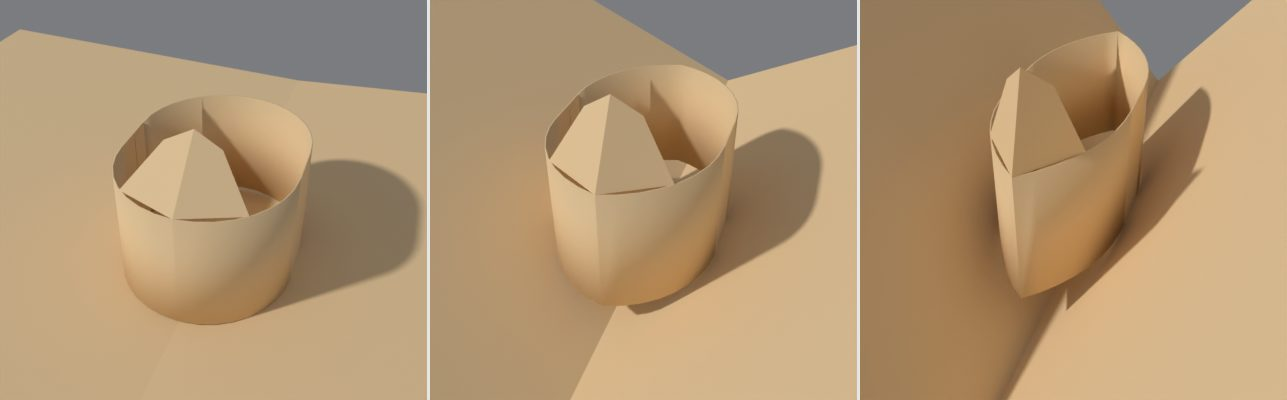
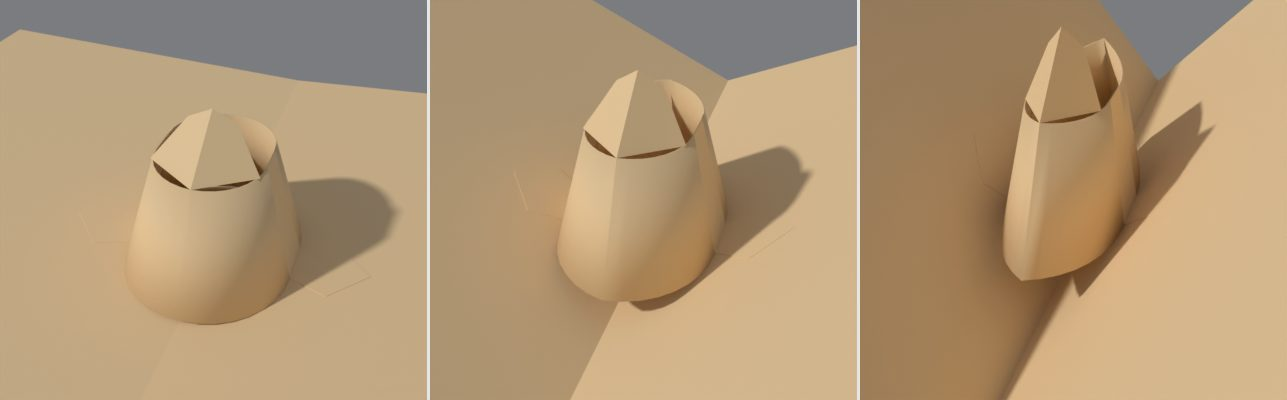
v0.82.1: the animal face a little conical, with ears; a muzzle on cones
Claude-Session: https://claude.ai/code/session_01C9mQ3UdpPG4HfxWumnBXkE

diff --git a/popup_pro/core/faces.py b/popup_pro/core/faces.py
@@ -15,6 +15,20 @@ class Faces:
     """Animal-face builder. Mixed into Model (model.py)."""
 
     def _tube_face(self, m, piece, P, uc, hgt, nf, wf):
+        """A straight loop's or tube's muzzle: off the top of its front
+        crease (at uc along its strip)."""
+        Gn = min(float(m.get("face_width", 18.0)), wf)
+        w1 = wf / nf  # a facet's width
+        j = min(nf - 1, int((Gn - 1e-6) / w1))  # facets out from the crease
+        names = (("GFL", "GFR", "GFL", "GFR") if nf == 1 else
+                 (f"GFL{nf}", "GFR1", f"GFL{nf - j}", f"GFR{1 + j}"))
+        if any(n not in P or P[n] is None for n in names):
+            return
+        nl, nr, wl, wr = (P[n] for n in names)
+        self._muzzle(m, piece, nl, nr, (uc, hgt), (0.0, 1.0),
+                     (wl, (uc - Gn, hgt)), (wr, (uc + Gn, hgt)))
+
+    def _muzzle(self, m, piece, near_l, near_r, O2, up2, end_l, end_r):
         """Birmingham takes a bite out of the end of the loop's centre fold
         and sticks its edges together, which pulls the card either side of
         it back into a curve: a nose. Stiff paper can't curve, so here the
@@ -25,35 +39,41 @@ class Faces:
         hardly at all when the card is shut, further as the walls open, and
         flat back when they open as far as the dart allows (wider than
         that, real card curves and this can't follow: Checks says so)."""
+        # near_l, near_r: the walls each side of the front crease; O2: the
+        # crease's top in the pattern, up2: its line on upward; end_l,
+        # end_r: (wall, pattern point) where each facet's crease ends
         lab = m["label"]
-        Gn = min(float(m.get("face_width", 18.0)), wf)
         Ln = float(m.get("face_len", 22.0))
         dart = math.radians(max(0.0, min(60.0, float(m.get("face_dart", 15.0)))))
-        w1 = wf / nf  # a facet's width
-
-        def wall(sx):
-            j = min(nf - 1, int((Gn - 1e-6) / w1))  # facets out from the crease
-            if nf == 1:
-                return "GFL" if sx < 0 else "GFR"
-            return f"GFL{nf - j}" if sx < 0 else f"GFR{1 + j}"
-
-        near = {-1.0: "GFL" if nf == 1 else f"GFL{nf}", 1.0: "GFR" if nf == 1 else "GFR1"}
-        if any(n not in P or P[n] is None for n in (wall(-1.0), wall(1.0), near[-1.0],
-                                                    near[1.0])):
-            return
+        O = Vector((O2[0], O2[1], 0.0))
+        up = Vector((up2[0], up2[1], 0.0)).normalized()
+        near = {-1.0: near_l, 1.0: near_r}
+        ends = {-1.0: end_l, 1.0: end_r}
+        # each facet's own shape: its crease, and its seam edge the dart
+        # short of the front crease's line
+        shape = {}
+        for sx in (-1.0, 1.0):
+            h2 = Vector((ends[sx][1][0], ends[sx][1][1], 0.0)) - O
+            Gn = h2.length
+            h2 = h2 / Gn
+            th = h2.angle(up)
+            across = (h2 - h2.dot(up) * up).normalized()
+            s2 = math.cos(dart) * up + math.sin(dart) * across
+            shape[sx] = (h2, s2, Gn, max(0.0, th - dart))
+        alpha = 0.5 * (shape[-1.0][3] + shape[1.0][3])
         tight = []
 
         def seam(t):
-            A = P[near[1.0]].asm(t)
-            Pc = A @ Vector((uc, hgt, 0.0))
-            c = (A.to_3x3() @ Vector((0.0, 1.0, 0.0))).normalized()
-            gl = (P[wall(-1.0)].asm(t) @ Vector((uc - Gn, hgt, 0.0)) - Pc).normalized()
-            gr = (P[wall(1.0)].asm(t) @ Vector((uc + Gn, hgt, 0.0)) - Pc).normalized()
+            A = near_r.asm(t)
+            Pc = A @ O
+            c = (A.to_3x3() @ up).normalized()
+            gl = (ends[-1.0][0].asm(t) @ Vector((*ends[-1.0][1], 0.0)) - Pc).normalized()
+            gr = (ends[1.0][0].asm(t) @ Vector((*ends[1.0][1], 0.0)) - Pc).normalized()
             mm = gl + gr
             rho = 0.5 * mm.length
             if rho < 1e-6:  # (a flat front: one flap, standing straight up)
                 return Pc, gl, gr, c
-            ca = math.sin(dart) / rho  # cos of (90 degrees - dart), the facet's angle
+            ca = math.cos(alpha) / rho
             if ca > 1.0 + 1e-9:
                 tight.append(t)
             ca = min(1.0, ca)
@@ -63,9 +83,7 @@ class Faces:
             return Pc, gl, gr, (ca * mh + math.sqrt(1.0 - ca * ca) * kh).normalized()
 
         for sx in (-1.0, 1.0):
-            h2 = Vector((sx, 0.0, 0.0))
-            s2 = Vector((sx * math.sin(dart), math.cos(dart), 0.0))
-            O = Vector((uc, hgt, 0.0))
+            h2, s2, Gn, _ = shape[sx]
             F2i = frame(O, h2, s2).inverted()
 
             def asm(t, sx=sx, F2i=F2i):
@@ -76,10 +94,10 @@ class Faces:
                     for a_, b_ in ((0.0, 0.0), (Gn, 0.0), (0.45 * Gn, 0.75 * Ln), (0.0, Ln))]
             side = "L" if sx < 0 else "R"
             p = self.add(Panel(f"{piece}.Nose{side}", piece, "panel", [poly], asm,
-                               P[near[sx]].name, None,
+                               near[sx].name, None,
                                f"{lab}: muzzle {'left' if sx < 0 else 'right'}"))
             p.free = True  # (creased off a curve: posed opening by opening)
-            self.fold_kind[frozenset((P[near[sx]].name, p.name))] = "valley"
+            self.fold_kind[frozenset((near[sx].name, p.name))] = "valley"
         self.fold_kind[frozenset((f"{piece}.NoseL", f"{piece}.NoseR"))] = "mountain"
         for t in self.samples:
             seam(t)
@@ -87,3 +105,13 @@ class Faces:
             self.warn(f"{lab}: the nose's dart is too wide for how far the front opens "
                       f"(from {min(tight):.0f} degrees); narrow Nose Dart or Muzzle Width, "
                       f"or let the card curve there")
+
+    @staticmethod
+    def ear(e0, e1, out, size):
+        """An ear: a base tab's outline grown to a point, size out from the
+        wall's foot (e0 to e1; out: away from the wall, in the pattern)."""
+        e0, e1, out = Vector(e0).to_2d(), Vector(e1).to_2d(), Vector(out).to_2d().normalized()
+        ev = (e1 - e0).normalized()
+        mid = 0.5 * (e0 + e1)
+        return [tuple(e0), tuple(e1), tuple(e1 + 0.5 * size * out + 0.2 * size * ev),
+                tuple(mid + size * out), tuple(e0 + 0.5 * size * out - 0.2 * size * ev)]

diff --git a/popup_pro/core/tubes.py b/popup_pro/core/tubes.py
@@ -422,6 +422,16 @@ class Tubes:
                     -onward(i_split, i_split - 1), pB)
         # base tabs under the side walls, folded in (towards the fold) or out
         kk = 1.0 if m.get("tab_side", "IN") == "IN" else -1.0
+        if m.get("face"):
+            kk = -1.0  # (ears: out from the loop)
+            j = max(1, min(n, round(float(m.get("face_width", 18.0)) /
+                                    max(1e-6, (Vector(pt2(n, 1.0 - f_top, n)) -
+                                               Vector(pt2(n + 1, 1.0 - f_top, n))).length))))
+            top = pt2(n + 1, 1.0 - f_top, n)
+            up2 = Vector(top) - Vector(pt2(n + 1, 1.0, n))
+            self._muzzle(m, piece, P[names[n][0]], P[names[n + 1][0]], top, tuple(up2),
+                         (P[names[n + 1 - j][0]], pt2(n + 1 - j, 1.0 - f_top, n + 1 - j)),
+                         (P[names[n + j][0]], pt2(n + 1 + j, 1.0 - f_top, n + j)))
         for nm, i, pg, Tp, sx in (("FL_", 0, host.p1, host.T1, -1.0),
                                   ("FR_", 2 * n + 1, host.p2, host.T2, 1.0)):
             e0, e1 = pt2(i, 1.0, i), pt2(i + 1, 1.0, i)
@@ -433,6 +443,8 @@ class Tubes:
             c2 = min(0.3 * tb, 0.2 * Lb)
             poly = [e0, e1, tuple(Vector(e1) + tb * out_ - c2 * ev),
                     tuple(Vector(e0) + tb * out_ + c2 * ev)]
+            if m.get("face"):
+                poly = self.ear(e0, e1, out_, float(m.get("face_ear", 22.0)))
             tgt = Tp.to_3x3() @ Vector((-sx * kk, 0.0, 0.0))
             sd = "L" if sx < 0 else "R"
             self.add(Panel(f"{piece}.Tab{sd}", piece, "tab", [ccw(poly)],
@@ -698,6 +710,8 @@ class Tubes:
                            None, f"{lab}: joining tab"))
         # base tabs under the side walls, folded in (towards the fold) or out
         k = 1.0 if m.get("tab_side", "IN") == "IN" else -1.0
+        if m.get("face"):
+            k = -1.0  # (ears: out from the loop)
         for side, u0, u1, T, parent, Tp in (
             ("L", u[0], u[1], frame(Vector((-a, y0 + D, TAB_LIFT)), (0, -1, 0), (-k, 0, 0)),
              host.p1, host.T1),
@@ -708,6 +722,9 @@ class Tubes:
             tbb = float(m.get("tab", 10.0))  # (out from the wall: not limited by its length)
             c2 = min(0.3 * tbb, 0.2 * D)
             poly = [(u0 + c2, -tbb), (u0, 0), (u1, 0), (u1 - c2, -tbb)]
+            if m.get("face"):
+                poly = self.ear((u0, 0.0), (u1, 0.0), (0.0, -1.0),
+                                float(m.get("face_ear", 22.0)))
             sgn = -1.0 if side == "L" else 1.0
             n2 = (sgn * T[0][0], sgn * T[0][1])
             poly = clip_halfplane(poly, n2, 0.5 - sgn * T[0][3])

diff --git a/popup_pro/props.py b/popup_pro/props.py
@@ -1001,6 +1001,11 @@ class PopupMech(bpy.types.PropertyGroup):
                          "carries on up past the front crease as a muzzle, folded back "
                          "over the loop by a dart (Birmingham 17)", default=False,
                          update=_changed)
+    face_ear: FloatProperty(name="Ear Size", description="Animal face: its base tabs are "
+                            "ears, glued to the pages out from the loop; how far they "
+                            "reach from the wall's foot", default=22.0, min=4.0,
+                            soft_max=80.0, subtype="DISTANCE", unit="LENGTH",
+                            update=_changed)
     face_width: FloatProperty(name="Muzzle Width", description="How far the muzzle runs "
                               "along the wall each side of the front crease", default=18.0,
                               min=3.0, soft_max=80.0, subtype="DISTANCE", unit="LENGTH",
@@ -1516,7 +1521,7 @@ class PopupMech(bpy.types.PropertyGroup):
                      strips=self.strips, cone_top=self.cone_top,
                      roof_height=self.roof_height, ridge=self.ridge,
                      roof_fold=self.roof_fold, eave=self.eave, rib=self.rib,
-                     face=self.muzzle, face_width=self.face_width, face_len=self.face_len,
+                     face=self.muzzle, face_ear=self.face_ear, face_width=self.face_width, face_len=self.face_len,
                      face_dart=self.face_dart)
         elif self.kind == "ROOF":
             d.update(type="ROOF", phi_l=self.phi_l, alpha_l=self.alpha_l, glue=self.glue,

diff --git a/tests/test_book_v82.py b/tests/test_book_v82.py
@@ -165,6 +165,17 @@ st["pop_next_uid"] = 1
 # ---- an animal face: a loop with a muzzle
 f = add("TUBE", variant="FACE")
 assert f.muzzle and f.front_style == "ROUND" and f.label.startswith("Face")
+assert f.cone_lean == 15.0  # (a little conical, narrower at the nose)
+M = built("Tube")
+for t in M.samples:  # on a cone: the two halves share the crease's top and the seam's tip
+    L, R = world(M, "Tube1.NoseL", t), world(M, "Tube1.NoseR", t)
+    shared = [w for w in L if min((w - v).length for v in R) < 0.02]
+    assert len(shared) == 2 and all(abs(w.x) < 0.02 for w in shared), (t, shared)
+ear = M.panels["Tube1.TabL"]  # its base tabs are ears, out from the loop
+assert len(ear.polys[0]) == 5
+xs = [w.x for w in world(M, "Tube1.TabL", M.tmax)]
+assert min(xs) < -(f.x + 0.9 * f.face_ear) and max(xs) < -f.x + 0.5, xs
+f.cone_lean = 0.0  # ---- and on a straight loop
 M = built("Tube")
 uc = f.depth + M.tubes[1]["wf"]  # the front crease, along the strip
 leans = []

diff --git a/popup_pro/ui.py b/popup_pro/ui.py
@@ -679,6 +679,7 @@ class POPUP_PT_mechs(_Base, bpy.types.Panel):
                 col.prop(m, "face_width")
                 col.prop(m, "face_len")
                 col.prop(m, "face_dart")
+                col.prop(m, "face_ear")
         col.prop(m, "strips")
         col.prop(m, "roof")
         if m.roof == "POINTED":

diff --git a/popup_pro/ops.py b/popup_pro/ops.py
@@ -356,6 +356,7 @@ def _as_face(st, m):
     was = st.live
     st["live"] = False
     m.height, m.muzzle = 35.0, True
+    m.cone_lean = 15.0  # (a little conical: narrower at the nose)
     m.label = unique_label(st.mechs, "Face", m)
     st["live"] = was
 

diff --git a/docs/guide.md b/docs/guide.md
@@ -219,10 +219,14 @@ Width** along it). **Muzzle Length** is how far it rises past the wall and
 just its dart; it folds further back as the loop opens, and lies flat back
 when the front has opened as far as the dart allows. Past that real card
 curves and this can't follow: Checks says so (narrow the dart or the
-muzzle). The loop's tabs are the book's glued ears, and its join at the back
-the strap under the chin. Draw the face on it, and erase its art to shape it.
+muzzle). The loop's base tabs become the book's glued **ears**: pointed, out
+from the loop, **Ear Size** from the wall's foot; its join at the back is
+the strap under the chin. From the **+** menu it comes a little conical
+(**Lean** 15°, narrower at the nose); a muzzle goes on a straight loop, a
+cone or a tube alike. Draw the face on it, and erase its art to shape it.
 
-![An animal face on a loop, at 175, 130 and 80 degrees](images/animal_face.jpg)
+![An animal face on a slightly conical loop, at 175, 130 and 80
+degrees](images/animal_face.jpg)
 
 ![Cones with lids: peaked in front, dipped behind, at 175, 115 and 55
 degrees](images/cone_lid.jpg)

diff --git a/README.md b/README.md
@@ -245,6 +245,8 @@ Sunflower is a good way to make them.
 
 ## Version history
 
+* **0.82.1**: the animal face comes a little conical, a muzzle goes on
+  cones too, and its base tabs are ears (**Ear Size**), out from the loop.
 * **0.82**: more of Birmingham's mechanisms. **Pop-up House** (49): a cube
   takes a gabled roof, with the book's sizes in the **+** menu. **Slotted
   Cross Piece** on a rising sheet (81): the two 45° folds as one piece
@@ -256,11 +258,6 @@ Sunflower is a good way to make them.
   Colour History while painting): an error in how the swatches were drawn
   cut the panel short, hiding them and the brush size, strength and ink
   layers below.
-* **0.81.2**: while drawing, **Used lately** fills in as you draw (each
-  stroke's colour, at once), and it and **Palette** are always shown, with a
-  line saying what goes there while they're empty. **Done Drawing** is at
-  the top of Artwork while you draw on the card, and no longer in Creases,
-  Cuts and Holes (where it stays for drawn creases, cuts and holes).
 
 Earlier versions are in the [changelog](CHANGELOG.md).
 

diff --git a/CHANGELOG.md b/CHANGELOG.md
@@ -3,6 +3,8 @@
 Newest first. `python scripts/since_upload.py` shows what has changed since the
 last upload to GitHub.
 
+* **0.82.1**: the animal face comes a little conical, a muzzle goes on
+  cones too, and its base tabs are ears (**Ear Size**), out from the loop.
 * **0.82**: more of Birmingham's mechanisms. **Pop-up House** (49): a cube
   takes a gabled roof, with the book's sizes in the **+** menu. **Slotted
   Cross Piece** on a rising sheet (81): the two 45° folds as one piece
